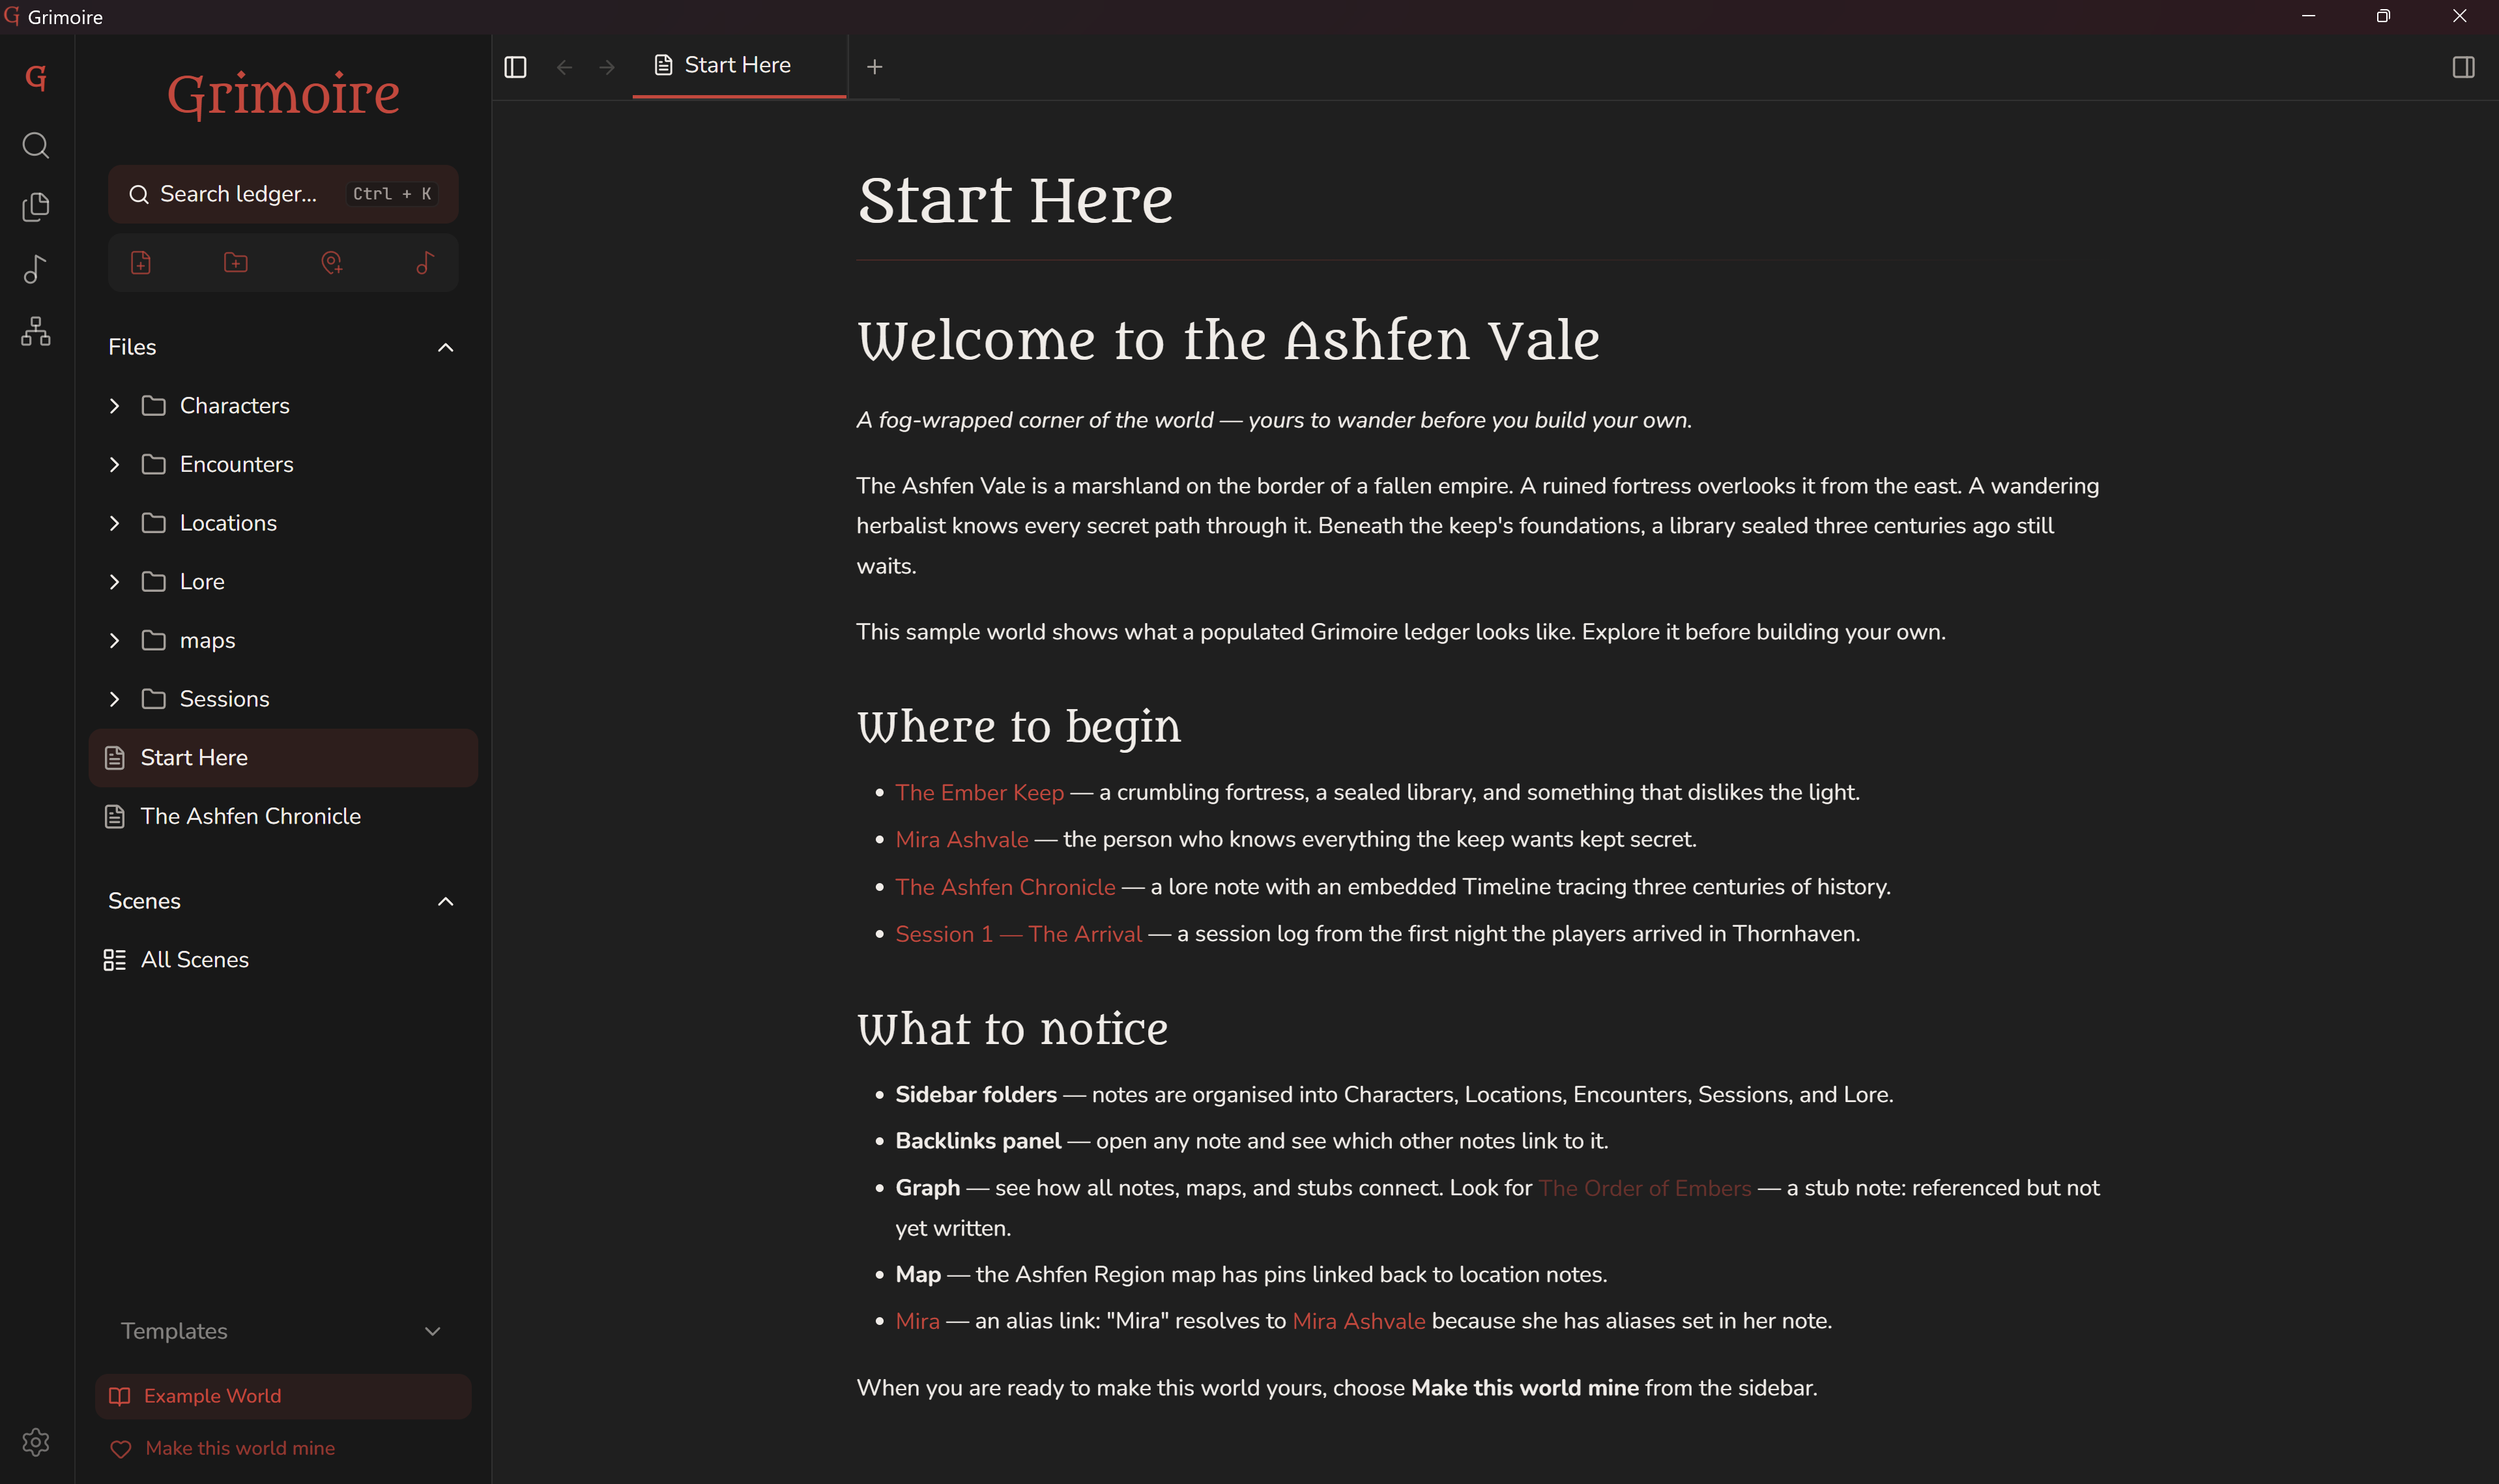
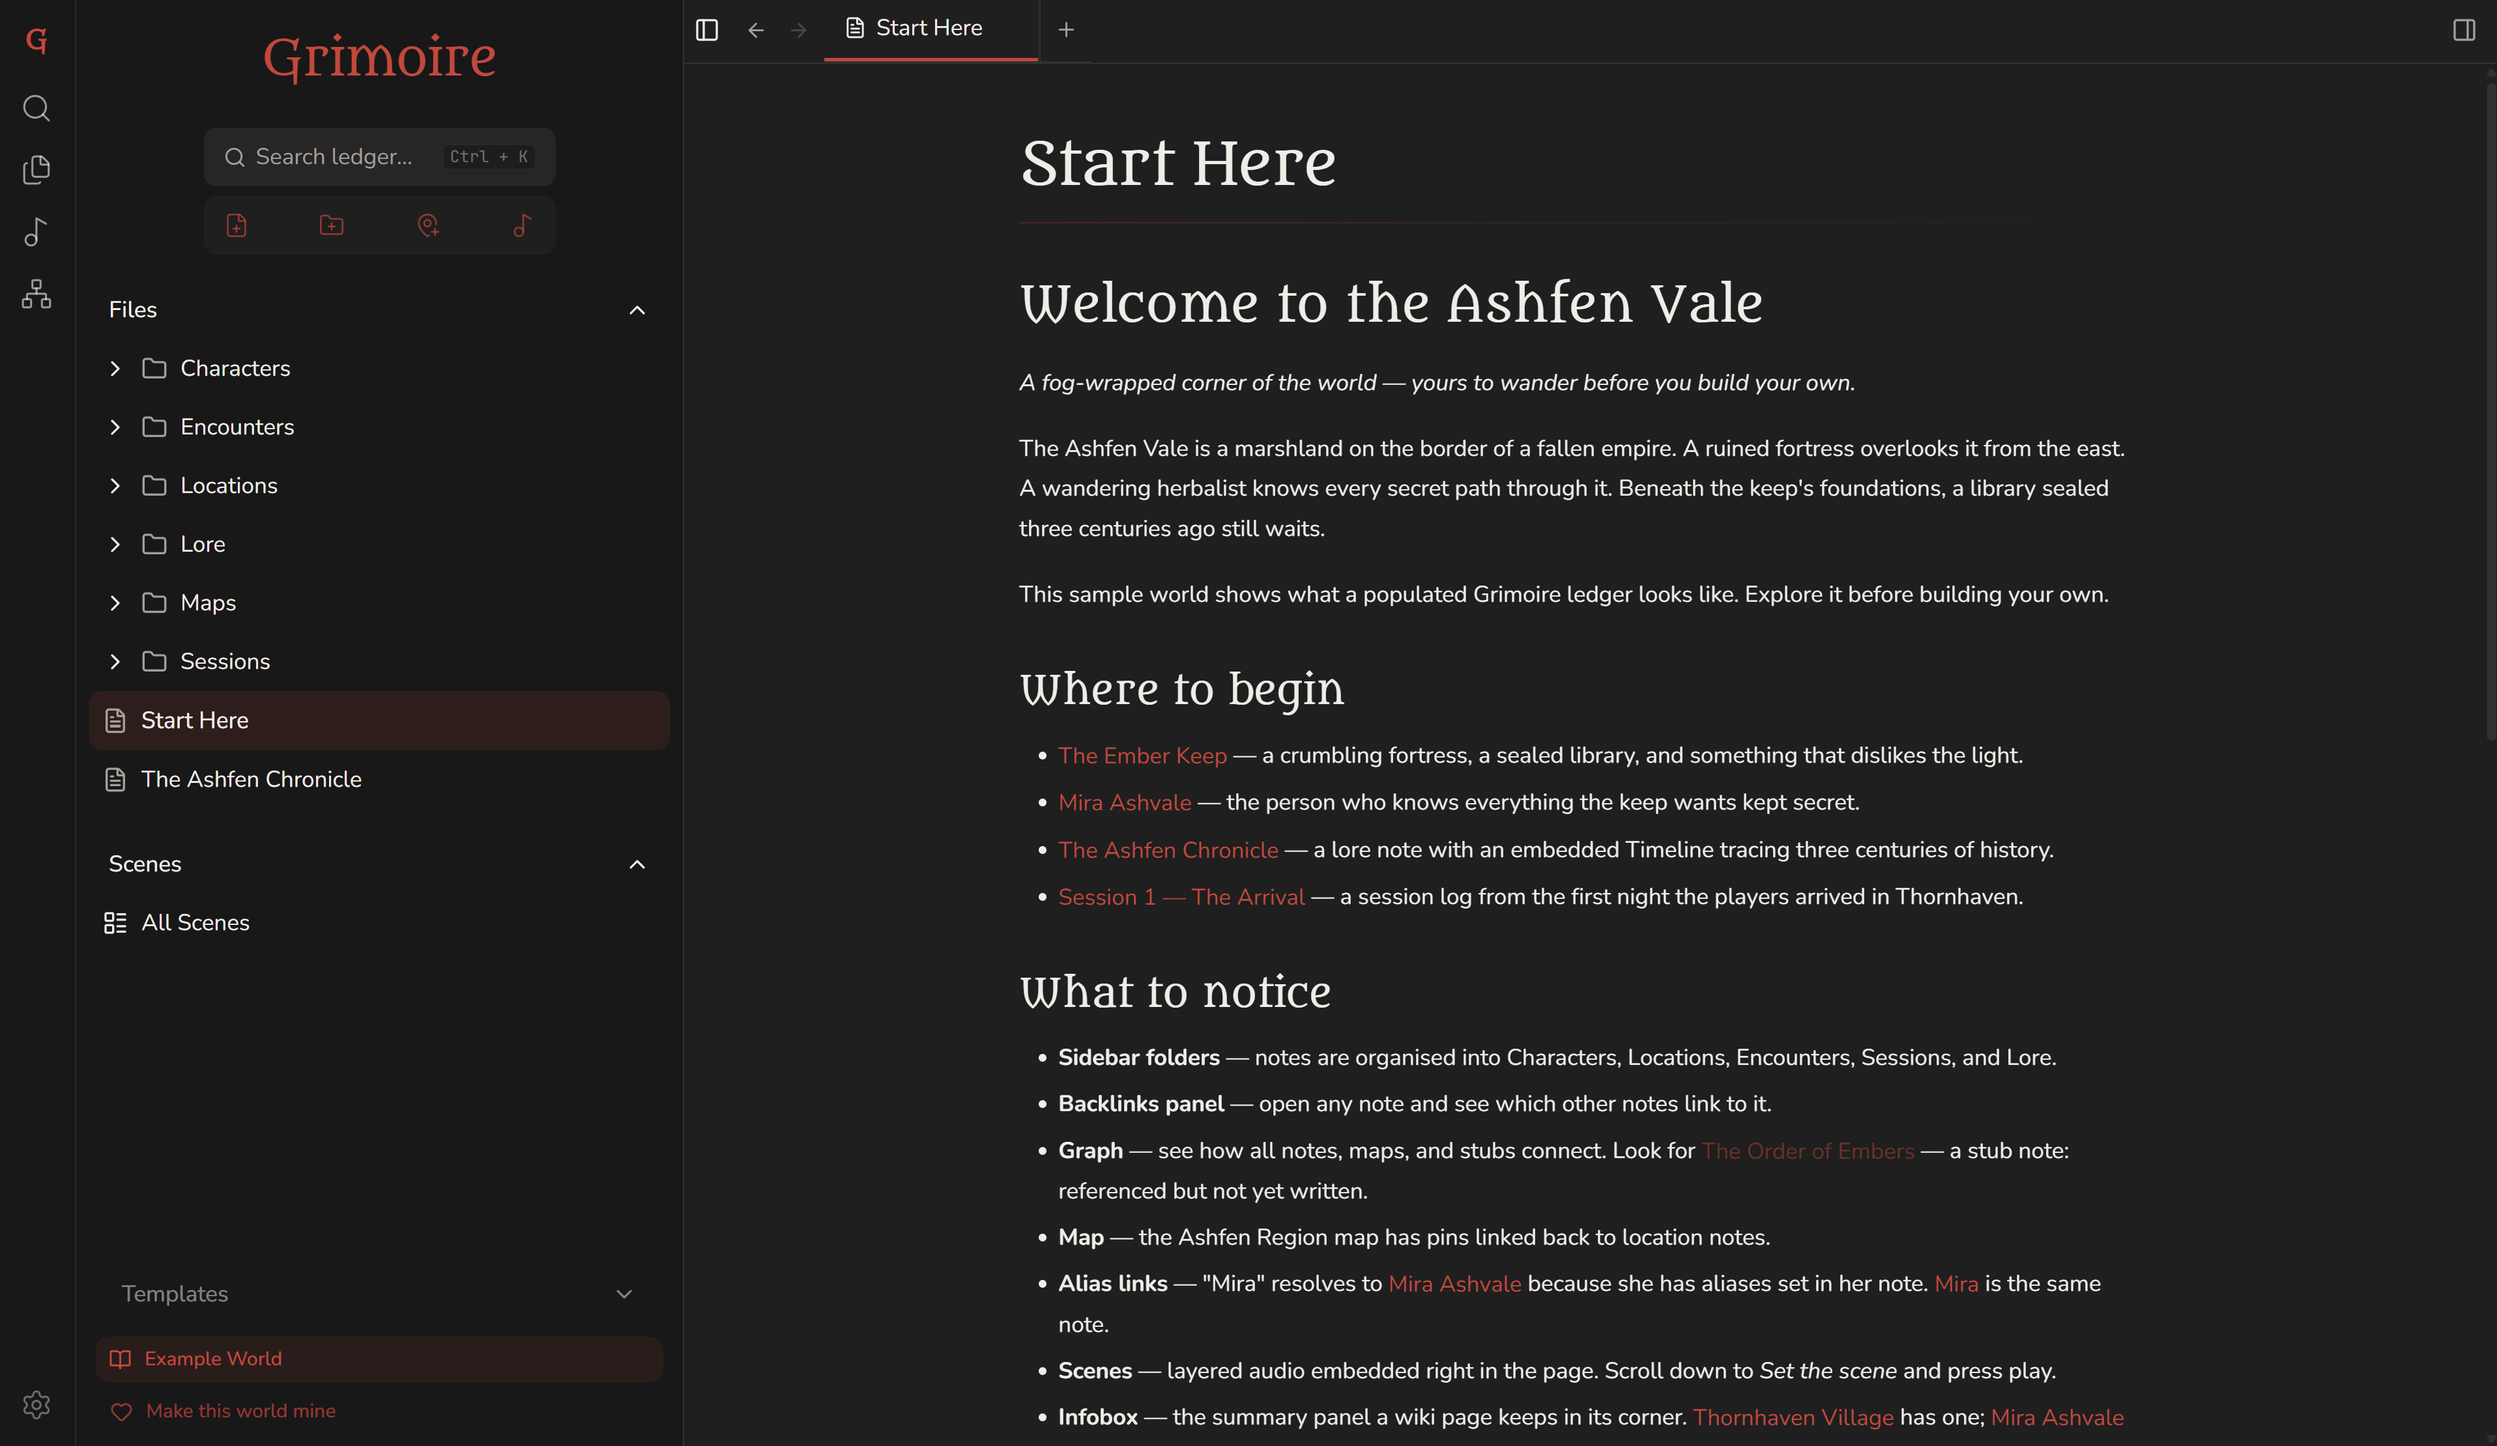
Show the map the site has been describing, and take it off the page's weight
The maps figure has shown the editor screenshot since the site landed — under
alt text describing pins on "the Reach", a place that exists in no note. It now
shows the map, with the Ember Keep's pin selected and the location note it opens
beside it, which is the sentence that section was already making.

WebP for the three figures below the fold: 9.05MB of PNG becomes 1.4MB, and the
map alone was 6.6MB — a painted parchment texture is the worst thing you can ask
PNG to store. At q88 the UI text is still crisp at full size. The hero stays PNG
because it is also the og:image, and social scrapers are the last place WebP
support can be assumed.

The hero's width/height were 3835x2277 against a file that is 3832x2220, which
reserves the wrong box and shifts the page as it loads. Its alt text described a
lore note; the shot is Start Here.

Two things the screenshot caught in the app itself:

Leaflet ships `.leaflet-container { background: #ddd }`, right for a tile map
where grey means "not loaded yet" and wrong for ours, where the only thing on
the canvas is one image from the GM's ledger. Everywhere it did not reach was a
pale panel down the side of a dark app. It is themed now.

And the attribution badge is gone. It credits whoever supplied the tiles; there
are none. Leaflet's licence wants its notice in the source, which the dependency
carries — not a badge over someone's map.

diff --git a/src/app.css b/src/app.css
@@ -322,6 +322,17 @@
 
 /* ── Map ──────────────────────────────────────────────────────── */
 
+/* The ground a map is pinned to.
+   Leaflet ships `.leaflet-container { background: #ddd }` in its own stylesheet, which is
+   the right default for a tile map — grey is what unloaded tiles look like. Here the map
+   is a single image the GM supplied, and anywhere it does not reach shows that grey: a
+   pale panel down the side of a dark app, brightest exactly where the pane is widest.
+   Themed rather than overridden to transparent, so the pane reads as one surface with the
+   note beside it. */
+.leaflet-container {
+  background: var(--background);
+}
+
 .placing-pin,
 .placing-pin .leaflet-container,
 .placing-pin .leaflet-interactive {

diff --git a/src/lib/components/map/MapCanvas.svelte b/src/lib/components/map/MapCanvas.svelte
@@ -307,6 +307,11 @@
         minZoom: -3,
         maxBoundsViscosity: 1.0,
         zoomControl: false,
+        // No attribution control. It exists to credit whoever supplied the *tiles*, and
+        // there are none here — the only thing on this canvas is an image out of the GM's
+        // own ledger. Leaflet's own licence asks for its notice in the source, which the
+        // dependency carries; it does not ask for a badge over someone's map.
+        attributionControl: false,
       });
 
       leaflet.imageOverlay(imageDataUrl, bounds).addTo(mapInstance);
